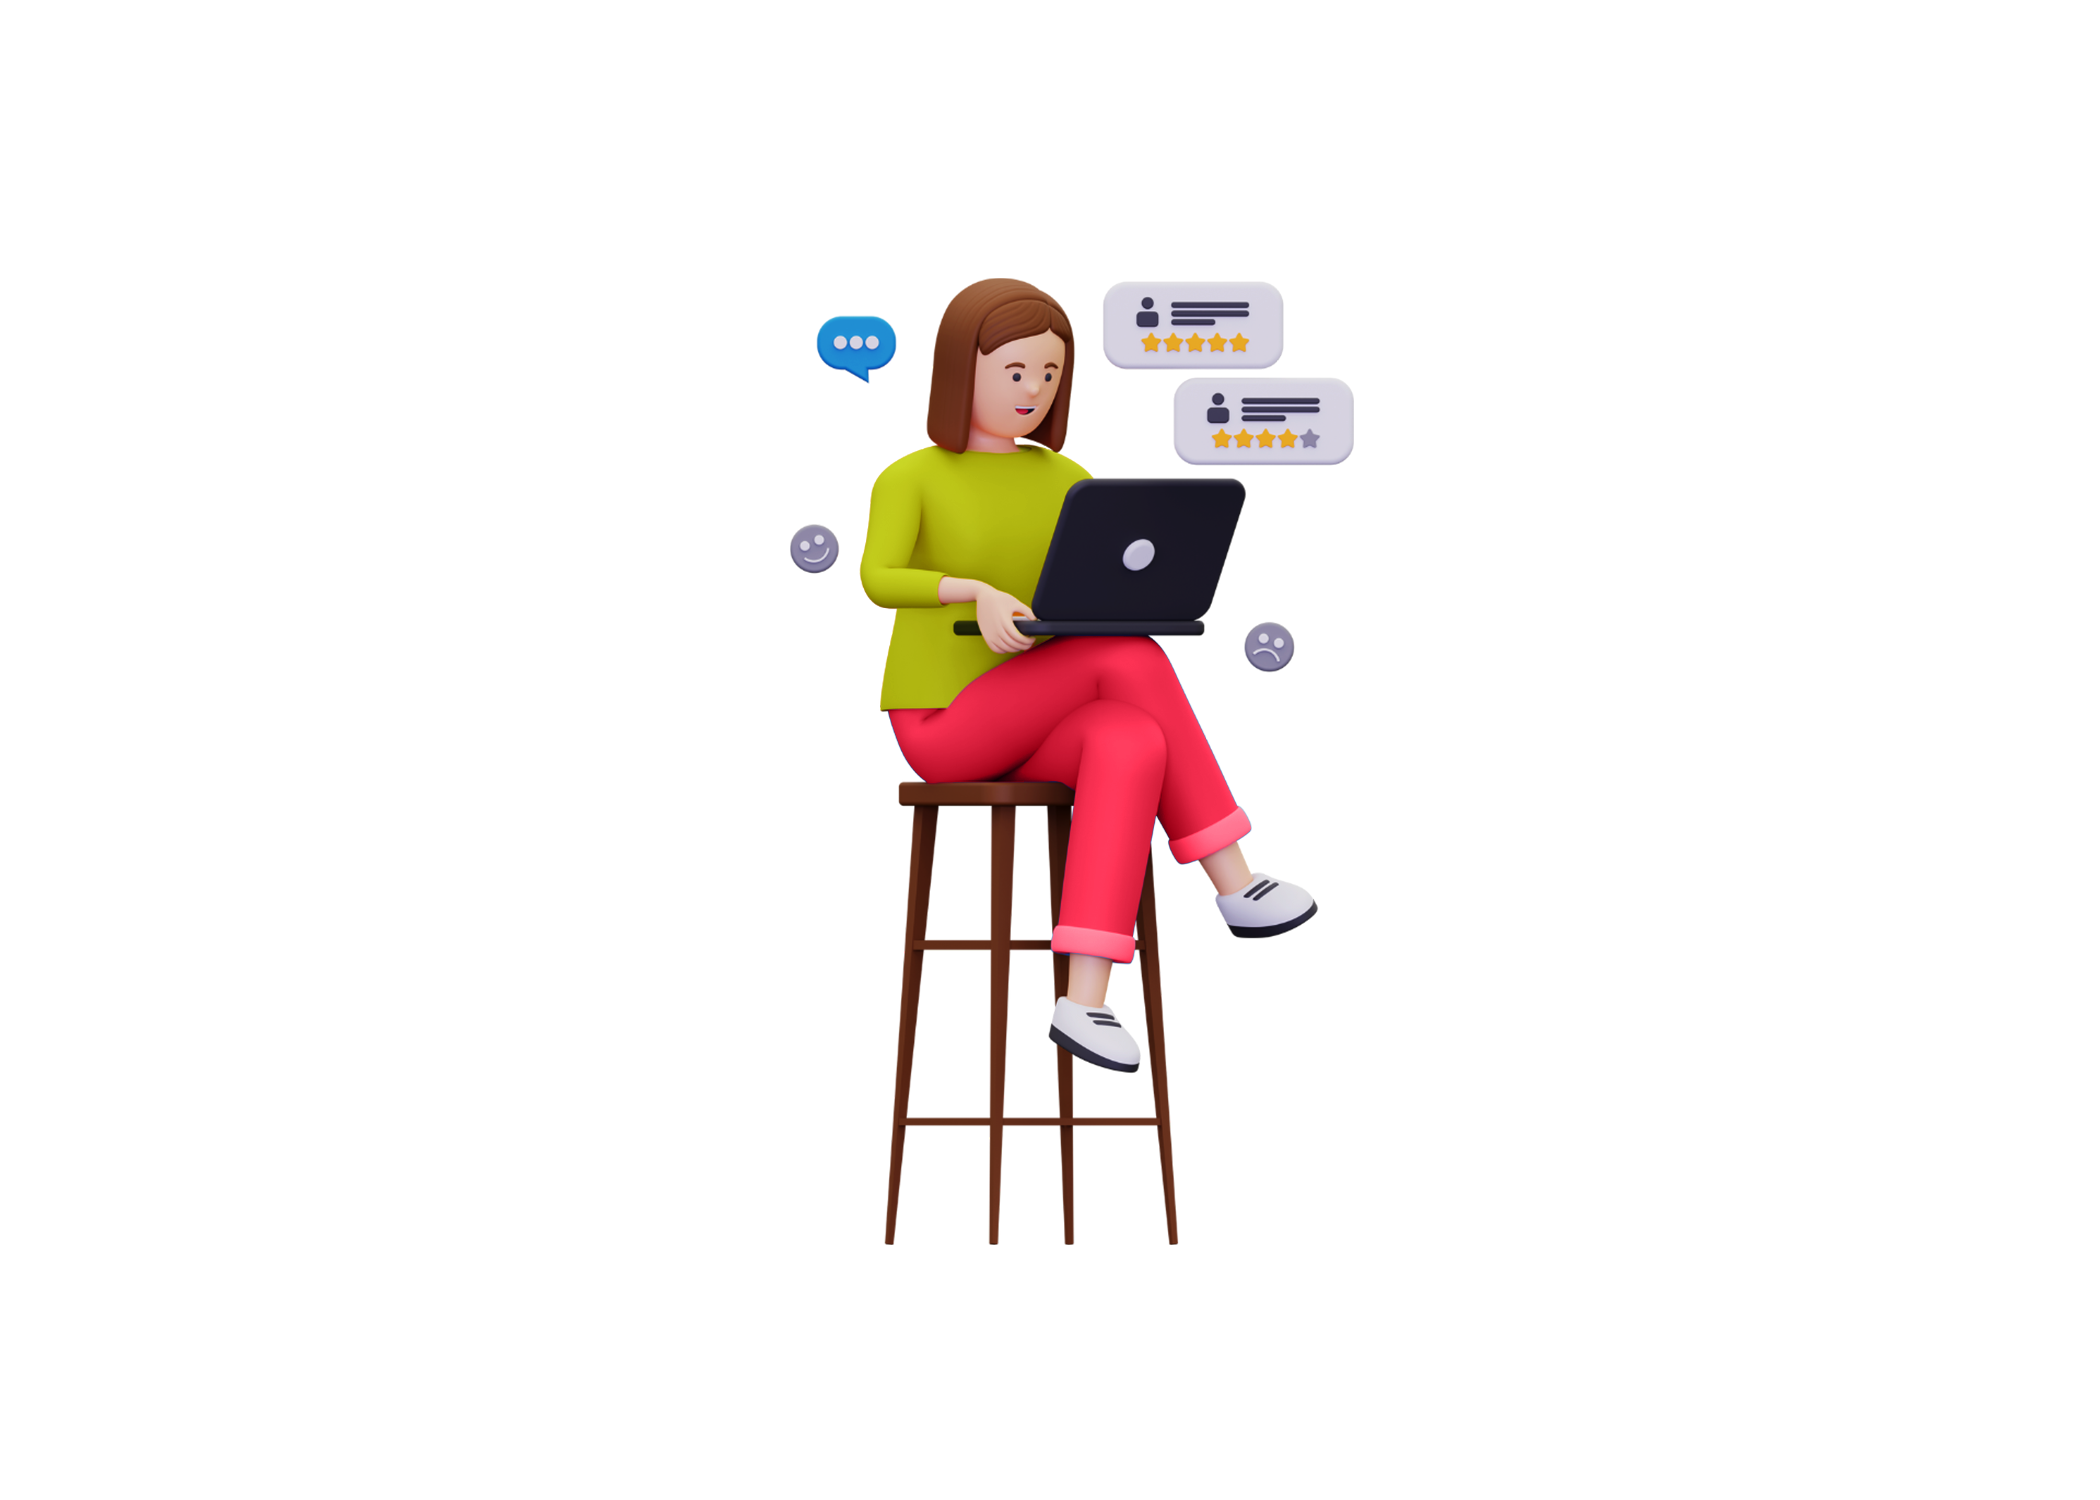
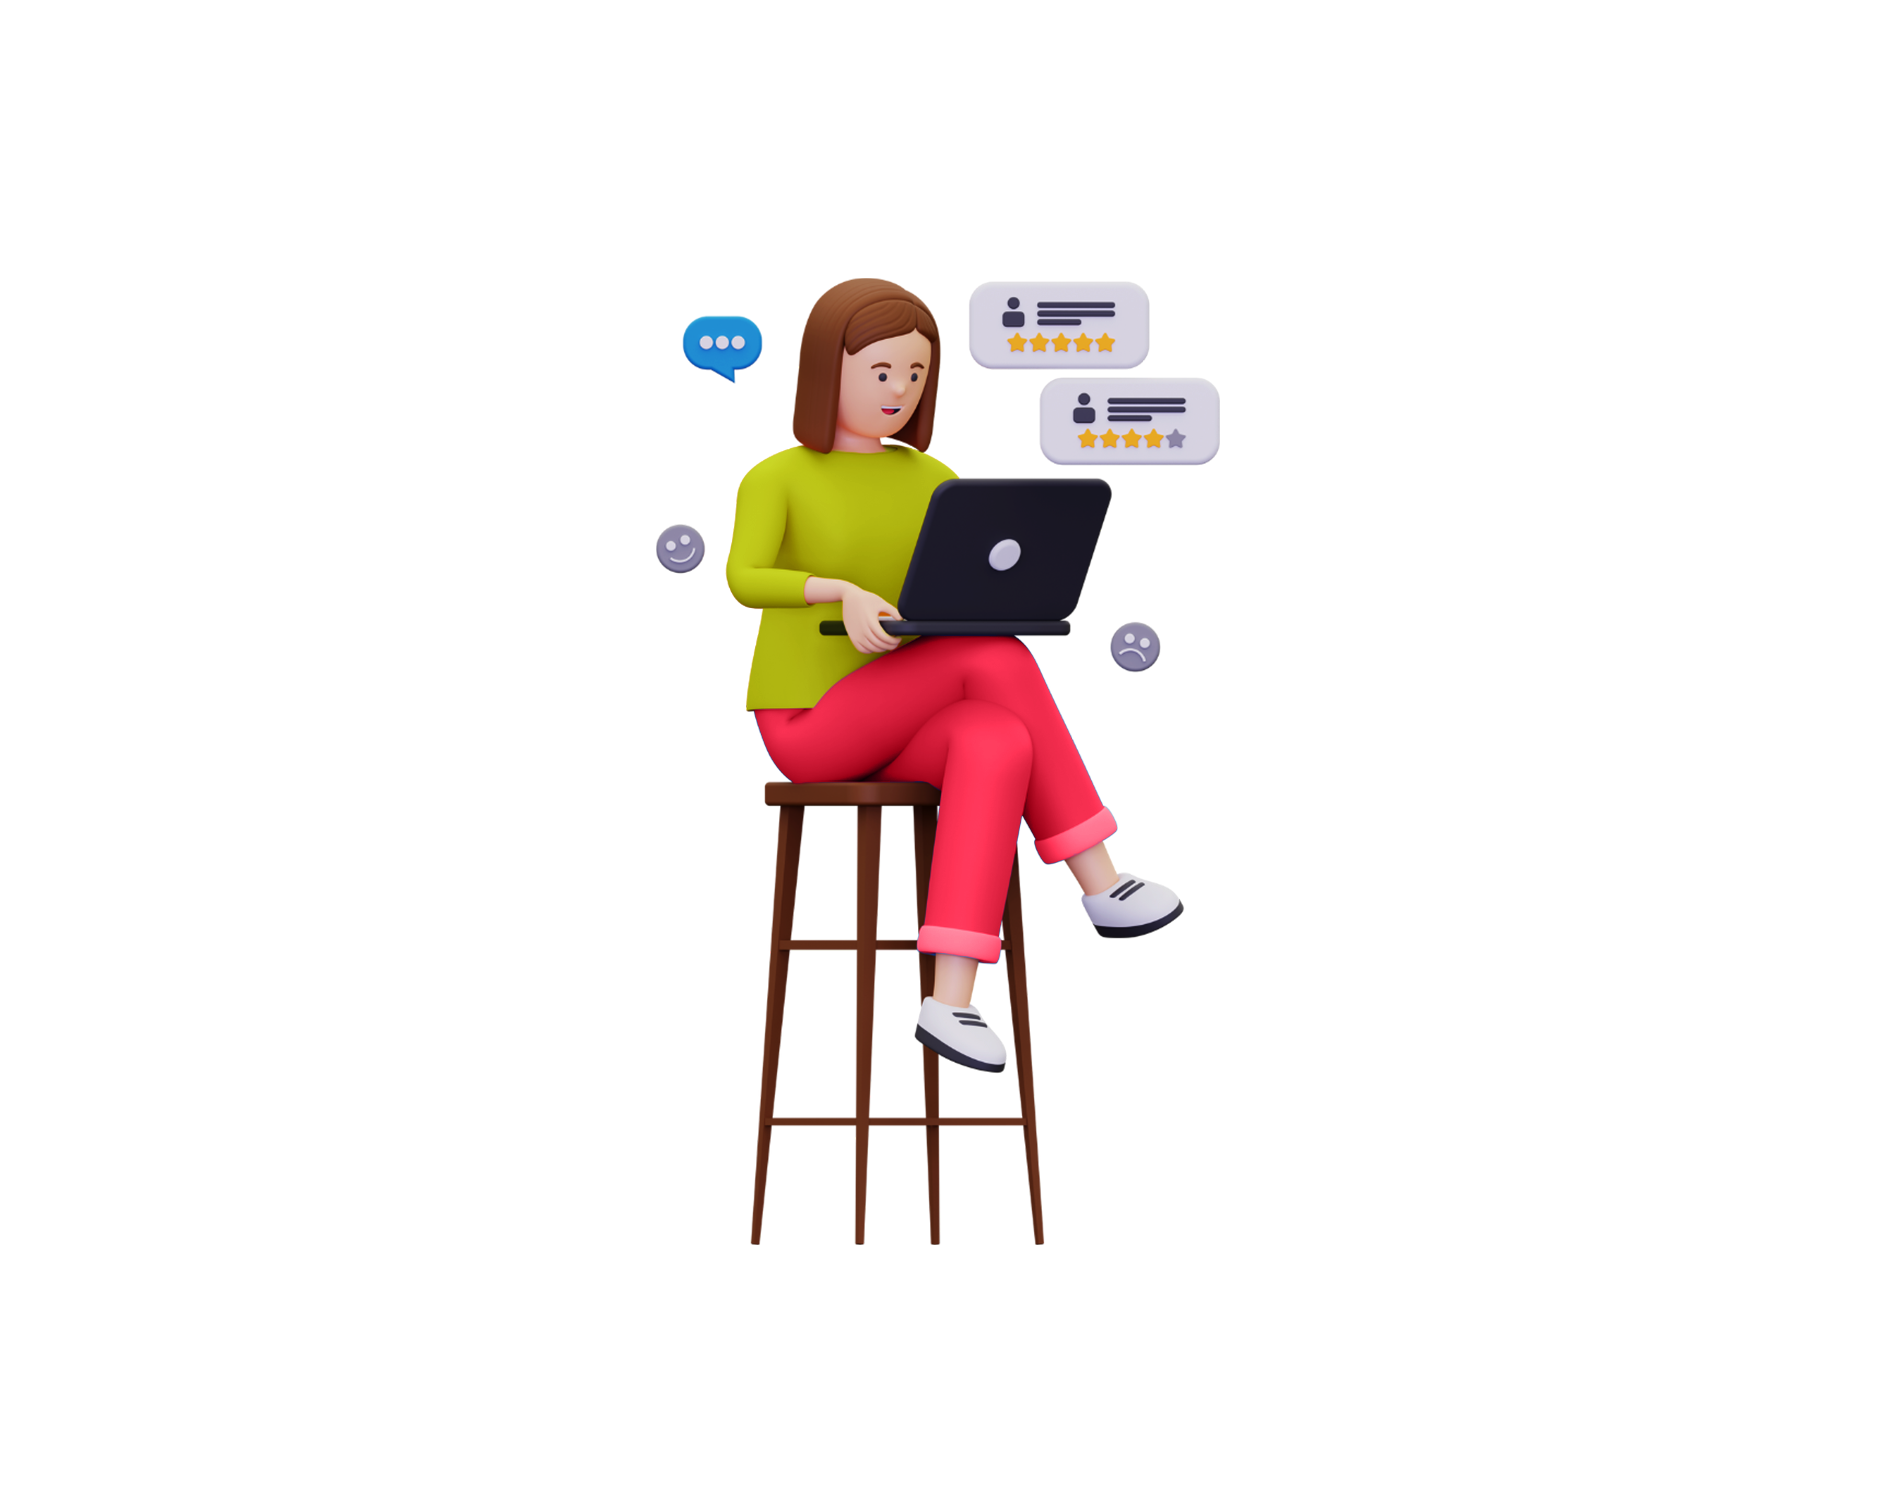
Sign up button and image size fix

Changed region(s): [[0.3394, 0.1841, 0.6479, 0.8286]]

diff --git a/src/components/Hero/Home.js b/src/components/Hero/Home.js
@@ -32,7 +32,7 @@ function Home() {
                         Learn what it’s like to work at a company from the women who have been there.
                     </h3>
                             <a href="https://www.surveymonkey.com/r/NMD3GRV"
-                               className="signup-btn"
+                               className="signup-btn desktop"
                                style={{marginTop:"5%", display: 'inline-block', textDecoration: 'none'}}
                                target="_blank"
                                rel="noopener noreferrer">
@@ -46,8 +46,14 @@ function Home() {
                 <div>
                     <img src={base} className="base-image desktop" alt="Findher Demo"/>
                     <img src={mobbase} className="base-image mobile" alt="Findher Demo"/>
+                    <a href="https://www.surveymonkey.com/r/NMD3GRV"
+                               className="signup-btn mobile"
+                               style={{marginTop:"5%", display: 'inline-block', textDecoration: 'none'}}
+                               target="_blank"
+                               rel="noopener noreferrer">
+                                Sign up today!
+                            </a>
                 </div>
-
                     </Col>
                 </Row>
             </Container>

diff --git a/src/components/Hero/home.css b/src/components/Hero/home.css
@@ -131,7 +131,7 @@
     }
 
     .desktop {
-        display: none;
+        display: none !important;
     }
 
     .mobile {
@@ -155,15 +155,7 @@
         margin-bottom: 4%;
         width:90%
     }
-    .signup-btn{
-        position: absolute;
-        top: 350%;
-        left: 50%;
-        transform: translate(-50%, -50%);
-        z-index: 1;
-        padding-left: 10%;
-        padding-right: 10%;
-    }
+
     .mobile{
         margin: 0%;
     }
@@ -185,6 +177,10 @@
     }
 
     .hero {
-        height: 95vh;
+        height: 74vh;
+    }
+    
+    .signup-btn {
+        width: 75% !important;
     }
 }
